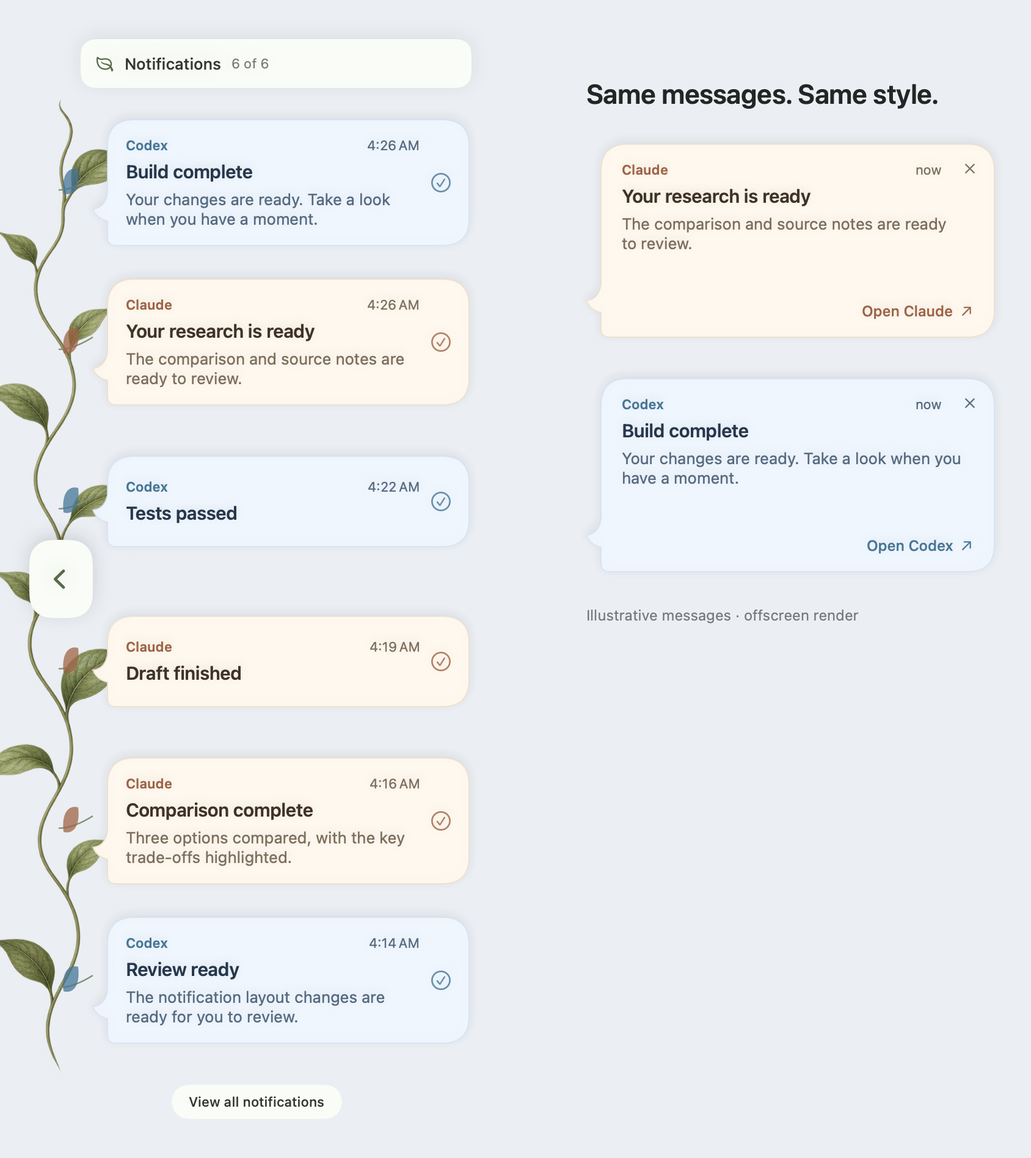
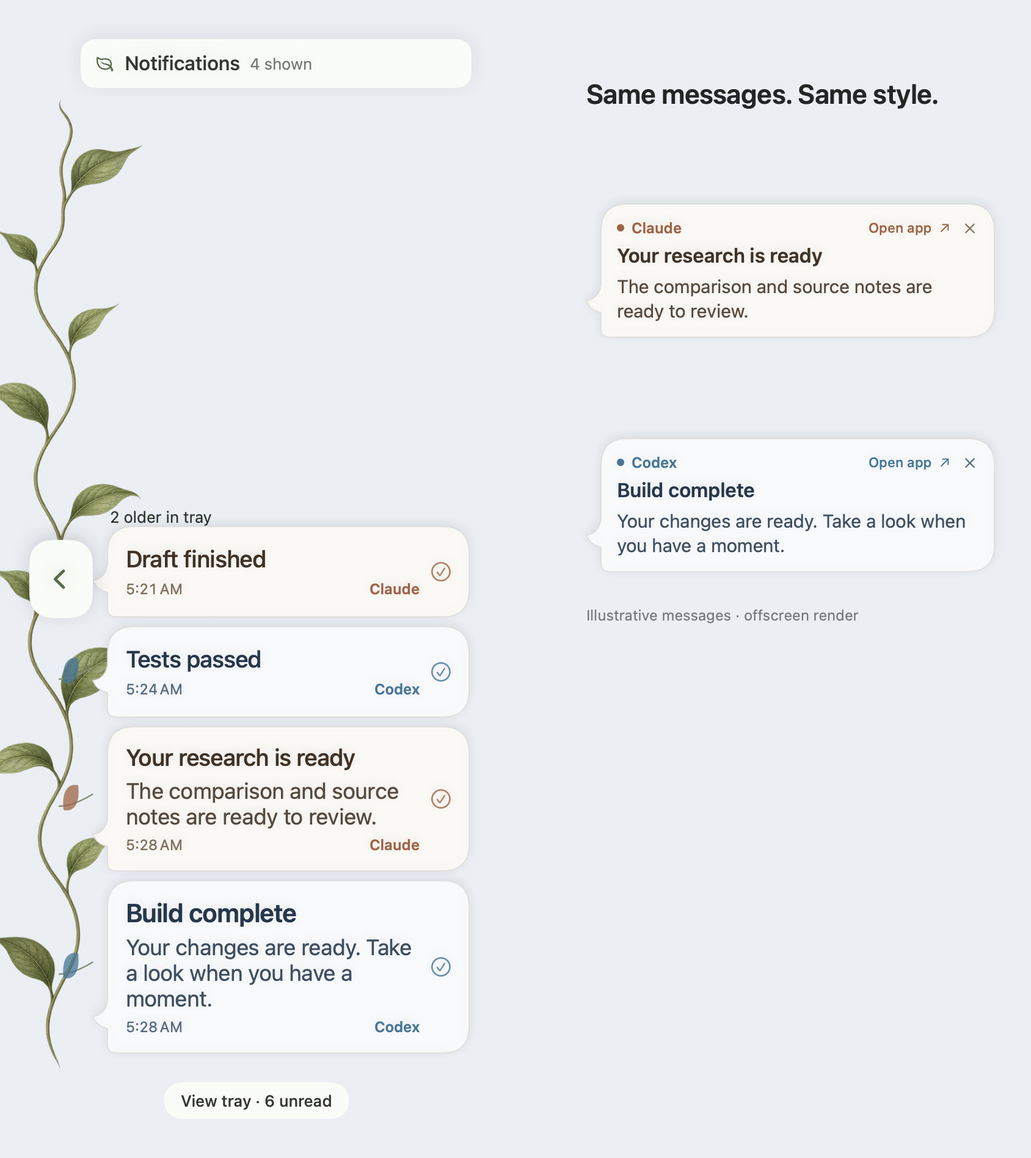
Anchor latest notification at the bottom and add timed vine-only delivery

diff --git a/Sources/AlienPing/VineView.swift b/Sources/AlienPing/VineView.swift
@@ -62,6 +62,8 @@ struct VineView:View {
     private var chrome:Color { Color(hex:scheme == .dark ? "253029":"FAFCF7") }
     private var leafInk:Color { Color(hex:scheme == .dark ? "BDD1AB":"536B43") }
     private var unread:[InboxEntry] { VineSummary.previewable(attention.inbox.entries) }
+    private var timeline:[InboxEntry] { VineSummary.timeline(attention.inbox.entries) }
+    private var shownCount:Int { timeline.count }
     private var isExpanded:Bool { state.visible(hasItems:!unread.isEmpty,quiet:attention.isQuiet) }
     var body:some View {
         Group {
@@ -80,39 +82,48 @@ struct VineView:View {
                 Button { attention.showInbox?() } label:{
                     HStack(spacing:8) {
                         Image(systemName:"leaf").font(.system(size:13,weight:.medium)).foregroundStyle(leafInk)
-                        Text("Notifications").font(.system(size:13,weight:.medium))
-                        Text("\(min(6,unread.count)) of \(unread.count)").font(.system(size:11)).foregroundStyle(ink.opacity(0.65))
+                        Text("Notifications").font(.system(size:16,weight:.medium))
+                        Text("\(shownCount) shown").font(.system(size:13)).foregroundStyle(ink.opacity(0.65))
                     }
                 }.buttonStyle(.plain).help("Open notification tray")
                 Spacer(minLength:2)
             }.padding(.leading,12).padding(.trailing,5).frame(height:40)
                 .background(chrome,in:RoundedRectangle(cornerRadius:12))
                 .shadow(color:.black.opacity(0.08),radius:8,y:2).vineTarget().padding(.leading,42).padding(.trailing,10).padding(.top,8).padding(.bottom,8)
-            GeometryReader { space in
+            GeometryReader { viewport in
+                ScrollViewReader { scroll in
                 ScrollView {
                     VStack(alignment:.leading,spacing:0) {
                         if unread.isEmpty {
                             VStack(alignment:.leading,spacing:8) {
-                                Text("No saved previews yet").font(.system(size:15,weight:.medium))
-                                Text("New notifications with message text will appear here. Older alerts without saved text stay in your tray.").font(.system(size:12)).foregroundStyle(ink.opacity(0.7))
+                                Text(attention.inbox.unreadCount == 0 ? "You’re caught up" : "No unread previews").font(.system(size:15,weight:.medium))
+                                Text(attention.inbox.unreadCount == 0 ? "New unread notifications will appear here." : "Unread alerts without saved text are in your tray.").font(.system(size:15)).foregroundStyle(ink.opacity(0.7))
                             }.padding(18).background(chrome,in:RoundedRectangle(cornerRadius:14)).padding(.leading,56).padding(.trailing,12)
                         }
-                        ForEach(VineSummary.recent(unread)) { entry in
-                            row(entry).frame(minHeight:max(112,(space.size.height-16)/CGFloat(max(1,min(6,unread.count)))))
+                        if unread.count > shownCount {
+                            Button("\(unread.count - shownCount) older in tray") { attention.showInbox?() }
+                                .buttonStyle(.link).vineTarget(scrolled:true).padding(.leading,66)
                         }
-                    }.frame(maxWidth:.infinity,alignment:.leading).padding(.vertical,8)
-                }.scrollIndicators(.hidden)
+                        ForEach(timeline) { entry in
+                            row(entry, latest:entry.id == timeline.last?.id).id(entry.id)
+                        }
+                    }.padding(.vertical,8).frame(maxWidth:.infinity,minHeight:viewport.size.height,alignment:unread.isEmpty ? .topLeading : .bottomLeading)
+                }.scrollIndicators(.automatic)
+                    .onChange(of:timeline.last?.id,initial:true) { _, id in
+                        if let id { scroll.scrollTo(id,anchor:.bottom) }
+                    }
+                }
             }.background(alignment:.leading){ VineStem() }
-            Button { attention.showInbox?() } label:{Text("View all notifications").font(.system(size:11,weight:.medium)).padding(.horizontal,14).padding(.vertical,7)}
+            Button { attention.showInbox?() } label:{Text("View tray · \(attention.inbox.unreadCount) unread").font(.system(size:13,weight:.medium)).padding(.horizontal,14).padding(.vertical,7)}
                 .buttonStyle(.plain).background(chrome,in:Capsule()).vineTarget().padding(.vertical,8)
         }
     }
-    private func row(_ entry:InboxEntry)->some View {
+    private func row(_ entry:InboxEntry, latest:Bool)->some View {
         let appearance=NotificationAppearance(source:entry.source,scheme:scheme)
         let color=appearance.accent
-        let missing=entry.title.isEmpty && entry.body.isEmpty
-        let title=model.hideText || missing ? "Notification from \(entry.source.rawValue)" : (entry.title.isEmpty ? String(entry.body.prefix(100)) : entry.title)
-        let detail=model.hideText ? "Message preview hidden" : (missing ? "Message text wasn’t saved for this older notification." : (entry.title.isEmpty ? "" : entry.body))
+        let subject=entry.title.trimmingCharacters(in:.whitespacesAndNewlines)
+        let title=model.hideText || subject.isEmpty ? "Notification from \(entry.source.rawValue)" : subject
+        let detail=model.hideText ? "Message preview hidden" : entry.body.trimmingCharacters(in:.whitespacesAndNewlines)
         return HStack(spacing:0) {
             ZStack {
                 Path { p in p.move(to:CGPoint(x:24,y:40));p.addQuadCurve(to:CGPoint(x:52,y:30),control:CGPoint(x:36,y:40)) }.stroke(Color(hex:"829173"),lineWidth:1.2)
@@ -121,13 +132,13 @@ struct VineView:View {
             HStack(spacing:2) {
                 Button { attention.open(entry) } label:{
                     VStack(alignment:.leading,spacing:5) {
+                        Text(title).font(latest ? NotificationAppearance.title : .system(size:19,weight:.medium)).tracking(-0.2).foregroundStyle(appearance.ink).lineLimit(2).multilineTextAlignment(.leading)
+                        if !detail.isEmpty { Text(detail).font(NotificationAppearance.body).foregroundStyle(appearance.ink.opacity(0.88)).lineLimit(latest ? 4 : 2).multilineTextAlignment(.leading) }
                         HStack {
-                            Text(entry.source.rawValue).fontWeight(.semibold).foregroundStyle(color)
+                            Text(entry.date.formatted(date:Calendar.current.isDateInToday(entry.date) ? .omitted : .abbreviated,time:.shortened)).monospacedDigit().foregroundStyle(appearance.secondary)
                             Spacer()
-                            Text(entry.date.formatted(date:.omitted,time:.shortened)).foregroundStyle(appearance.secondary)
-                        }.font(.system(size:11))
-                        Text(title).font(NotificationAppearance.title).tracking(-0.2).foregroundStyle(appearance.ink).lineLimit(2).multilineTextAlignment(.leading)
-                        if !detail.isEmpty { Text(detail).font(NotificationAppearance.body).foregroundStyle(appearance.secondary).lineLimit(3).multilineTextAlignment(.leading) }
+                            Text(entry.source.rawValue).font(.system(size:12,weight:.semibold)).foregroundStyle(color)
+                        }.font(.system(size:12))
                     }.frame(maxWidth:.infinity,minHeight:46,alignment:.leading).contentShape(Rectangle())
                 }.buttonStyle(.plain).help("Open \(entry.source.rawValue)")
                 Button { attention.markRead(entry.id) } label:{Image(systemName:"checkmark.circle").font(.system(size:16,weight:.regular)).foregroundStyle(color.opacity(0.8)).frame(width:30,height:44)}
@@ -147,7 +158,7 @@ struct VineView:View {
         } label:{
             VStack(spacing:5) {
                 Image(systemName:attention.isQuiet ? "moon":"chevron.\(isExpanded ? "left":"right")").font(.system(size:18,weight:.semibold))
-                if !isExpanded && !unread.isEmpty { Text("\(unread.count)").font(.system(size:11,weight:.semibold)) }
+                if !isExpanded && !unread.isEmpty { Text("\(shownCount)").font(.system(size:13,weight:.semibold)) }
                 if unread.isEmpty { Image(systemName:"leaf").font(.system(size:12)) }
             }.foregroundStyle(leafInk).frame(width:52,height:64)
                 .background(chrome,in:RoundedRectangle(cornerRadius:18))

diff --git a/Sources/AlienPing/Views.swift b/Sources/AlienPing/Views.swift
@@ -39,27 +39,29 @@ struct PingView: View {
     var body: some View {
         ZStack(alignment:.topTrailing) {
             Button(action:open) {
-                VStack(alignment:.leading,spacing:5) {
-                    HStack(spacing:8) {
-                        Text(ping.source.rawValue).font(.system(size:11,weight:.semibold)).foregroundStyle(accent)
-                        Spacer()
-                        Text(ping.preview ? "Preview" : "now").font(.system(size:11)).foregroundStyle(secondary)
-                    }.padding(.trailing,25)
-                    Text(hideText ? "New notification" : ping.title)
-                        .font(NotificationAppearance.title).tracking(-0.2).lineLimit(1)
-                        .frame(maxWidth:.infinity,alignment:.leading)
-                    Text(hideText ? "Your message is ready to read." : ping.body)
-                        .font(.system(size:13)).foregroundStyle(secondary).lineLimit(2)
-                        .frame(maxWidth:.infinity,alignment:.leading)
-                    Spacer(minLength:3)
+                VStack(alignment:.leading,spacing:6) {
                     HStack(spacing:6) {
+                        Circle().fill(accent).frame(width:6,height:6)
+                        Text(ping.source.rawValue).font(.system(size:12,weight:.semibold))
                         Spacer()
-                        Text(ping.actionLabel ?? (ping.openNotification == nil ? "Open \(ping.source.rawValue)" : "Open chat"))
-                        Image(systemName:"arrow.up.right").font(.system(size:10,weight:.medium))
-                    }.font(.system(size:12,weight:.medium)).foregroundStyle(accent)
+                        Text(ping.actionLabel ?? (ping.openNotification == nil ? "Open app" : "Open chat"))
+                        Image(systemName:"arrow.up.right").font(.system(size:9,weight:.medium))
+                    }
+                    .font(.system(size:11,weight:.medium)).foregroundStyle(accent)
+                    .padding(.trailing,21)
+                    if hideText || !ping.title.isEmpty {
+                        Text(hideText ? "New notification" : ping.title)
+                            .font(.system(size:16,weight:.semibold)).lineLimit(2)
+                    }
+                    if hideText || !ping.body.isEmpty {
+                        Text(hideText ? "Your message is ready to read." : ping.body)
+                            .font(.system(size:15)).foregroundStyle(ink.opacity(0.88))
+                            .lineSpacing(1).lineLimit(4)
+                    }
                 }
-                .padding(.leading,29).padding(.trailing,18).padding(.vertical,14)
-                .frame(maxWidth:.infinity,maxHeight:.infinity,alignment:.leading)
+                .multilineTextAlignment(.leading)
+                .padding(.leading,25).padding(.trailing,15).padding(.vertical,12)
+                .frame(maxWidth:.infinity,alignment:.leading)
                 .contentShape(NotificationBubble())
             }.buttonStyle(.plain).foregroundStyle(ink)
                 .accessibilityLabel("Open \(ping.source.rawValue): \(hideText ? "New notification" : ping.title)")
@@ -73,6 +75,7 @@ struct PingView: View {
         .overlay(NotificationBubble().stroke(edge.opacity(hovered ? 1 : 0.8),lineWidth:1).allowsHitTesting(false))
         .shadow(color:appearance.shadow,radius:4,x:0,y:2)
         .padding(.leading,60).padding(.trailing,6).padding(.vertical,6)
+        .frame(maxHeight:.infinity,alignment:.bottom)
         .onHover { hovered=$0 }
     }
 }

diff --git a/Sources/AlienPing/AttentionController.swift b/Sources/AlienPing/AttentionController.swift
@@ -55,13 +55,21 @@ final class AttentionController: ObservableObject {
     func stop() { timer?.invalidate();timer=nil;meetings.stop();focusedChat.stop();for token in observers { NSWorkspace.shared.notificationCenter.removeObserver(token) };observers=[];save() }
     func preference(_ source:SourceApp)->CompanionPreferences { preferences[source.rawValue] ?? CompanionPreferences(character:source == .claude ? "sunburst":"terminal") }
     func change(_ source:SourceApp,_ update:(inout CompanionPreferences)->Void) { var p=preference(source);update(&p);preferences[source.rawValue]=p }
+    var vineOnly:Bool { UserDefaults.standard.double(forKey:"vineOnlyUntil") > Date().timeIntervalSince1970 }
+    var onVineArrival:(()->Void)?
+    func pauseBubbles() {
+        UserDefaults.standard.set(Date().addingTimeInterval(1800).timeIntervalSince1970,forKey:"vineOnlyUntil")
+        queue.clear();live.removeAll();model.overlay.stop()
+    }
     func receive(_ ping:Ping) {
         focusedChat.inspect { [weak self] context in
             guard let self else { return }
             let seen = !self.sessionUnavailable && context?.matches(source:ping.source,title:ping.title,body:ping.body)==true
             let entry=InboxEntry(source:ping.source,title:ping.title,body:ping.body,read:seen)
             self.inbox.insert(entry)
-            if !seen {
+            if !seen && self.vineOnly {
+                if !self.isQuiet && !VineSummary.previewable([entry]).isEmpty { self.onVineArrival?() }
+            } else if !seen {
                 var livePing=ping;livePing.inboxIDs=[entry.id]
                 self.live[entry.id]=livePing
                 self.queue.enqueue(entry.id,at:Date.timeIntervalSinceReferenceDate,quiet:self.isQuiet)
@@ -83,7 +91,7 @@ final class AttentionController: ObservableObject {
     func markAllRead() { model.overlay.removeReadNotifications(Set(inbox.entries.map(\.id)));inbox.markAllRead();queue.clear();live.removeAll();save() }
     func remove(_ id:UUID) { model.overlay.removeReadNotifications([id]);inbox.remove(id);queue.remove(id);live.removeValue(forKey:id);save() }
     func clear() { model.overlay.removeReadNotifications(Set(inbox.entries.map(\.id)));inbox.clear();queue.clear();live.removeAll();save() }
-    func open(_ entry:InboxEntry) { markRead(entry.id);model.openSource(entry.source) }
+    func open(_ entry:InboxEntry) { model.openSource(entry.source) }
     private func save() {
         onCountChanged?(inbox.unreadCount)
         do { guard let store else { return };try store.save(inbox,storeContent:storeContent);storageError="" }
@@ -104,7 +112,7 @@ final class AttentionController: ObservableObject {
             quietReason=reason
             if !reason.isEmpty {
                 model.overlay.stop()
-                for entry in inbox.entries where !entry.read && Date().timeIntervalSince(entry.date)<15 { queue.enqueue(entry.id,at:Date.timeIntervalSinceReferenceDate,quiet:true) }
+                for entry in inbox.entries where !vineOnly && live[entry.id] != nil && !entry.read && Date().timeIntervalSince(entry.date)<15 { queue.enqueue(entry.id,at:Date.timeIntervalSinceReferenceDate,quiet:true) }
             }
             Diagnostics.shared.event("quiet_mode_changed",["quiet":!reason.isEmpty])
         }

diff --git a/Sources/AlienPing/VineController.swift b/Sources/AlienPing/VineController.swift
@@ -15,7 +15,11 @@ final class VineController {
     private var globalMouse:Any?
     private var localMouse:Any?
     private var lastLayout=""
-    init(model:Model,state:VineState=VineState()) { self.model=model;self.state=state }
+    private var wasQuiet=false
+    private var previousCount=0
+    private var closeDeadline:TimeInterval?
+    private let now:()->TimeInterval
+    init(model:Model,state:VineState=VineState(),now:@escaping ()->TimeInterval={ ProcessInfo.processInfo.systemUptime }) { self.model=model;self.state=state;self.now=now }
     func start(present:Bool=true) {
         presenting=present
         let p=NSPanel(contentRect:.zero,styleMask:[.borderless,.nonactivatingPanel],backing:.buffered,defer:false)
@@ -34,7 +38,12 @@ final class VineController {
         timer=Timer.scheduledTimer(withTimeInterval:0.2,repeats:true) { [weak self] _ in self?.layout();self?.updateMouse() }
         layout()
     }
-    func toggle() { state.enabled.toggle() }
+    func open() {
+        state.enabled=true;state.expanded=true;state.manuallyExpanded=true
+        closeDeadline=now()+20
+    }
+    func hide() { state.enabled=false;state.manuallyExpanded=false;closeDeadline=nil }
+    func revealArrival() { if state.enabled && !model.attention.isQuiet { open() } }
     func stop() {
         timer?.invalidate();timer=nil;subscriptions.removeAll()
         if let globalMouse { NSEvent.removeMonitor(globalMouse) };globalMouse=nil
@@ -45,7 +54,17 @@ final class VineController {
         guard let panel,let screen=NSScreen.screens.first else { return }
         guard state.enabled else { panel.orderOut(nil);return }
         let count=VineSummary.previewable(model.attention.inbox.entries).count
-        let expanded=state.visible(hasItems:count>0,quiet:model.attention.isQuiet)
+        let quiet=model.attention.isQuiet
+        if (quiet && !wasQuiet) || (count==0 && previousCount>0) { state.manuallyExpanded=false }
+        wasQuiet=quiet;previousCount=count
+        var expanded=state.visible(hasItems:count>0,quiet:model.attention.isQuiet)
+        if expanded {
+            if closeDeadline == nil { closeDeadline=now()+20 }
+            if presenting && panel.isVisible && panel.frame.contains(NSEvent.mouseLocation) { closeDeadline=now()+20 }
+            if let deadline=closeDeadline, now()>=deadline {
+                state.manuallyExpanded=false;state.expanded=false;expanded=false
+            }
+        } else { closeDeadline=nil }
         let area=screen.visibleFrame
         let height=expanded ? area.height-24 : 116
         let width:CGFloat=expanded ? min(372,area.width) : 76

diff --git a/Sources/AlienPing/main.swift b/Sources/AlienPing/main.swift
@@ -19,7 +19,10 @@ final class Delegate: NSObject, NSApplicationDelegate {
         let menu=NSMenu()
         let trayItem=NSMenuItem(title:"Notification tray",action:#selector(showInbox),keyEquivalent:"i");trayItem.target=self;unreadItem=trayItem;menu.addItem(trayItem)
         let quietItem=NSMenuItem(title:"Toggle quiet mode",action:#selector(toggleQuiet),keyEquivalent:"d");quietItem.target=self;menu.addItem(quietItem)
-        let vineItem=NSMenuItem(title:"Show notification vine",action:#selector(toggleVine),keyEquivalent:"v");vineItem.target=self;vineMenuItem=vineItem;menu.addItem(vineItem)
+        let vineItem=NSMenuItem(title:"Open notification vine",action:#selector(openVine),keyEquivalent:"v");vineItem.target=self;vineMenuItem=vineItem;menu.addItem(vineItem)
+        for (title,action) in [("Hide notification vine",#selector(hideVine)),("Vine only for 30 minutes",#selector(pauseBubbles))] {
+            let item=NSMenuItem(title:title,action:action,keyEquivalent:"");item.target=self;menu.addItem(item)
+        }
         menu.addItem(.separator())
         let stageItem=NSMenuItem(title:"Mascot Stage",action:#selector(showMascotStage),keyEquivalent:"m");stageItem.target=self
         menu.addItem(stageItem)
@@ -42,7 +45,7 @@ final class Delegate: NSObject, NSApplicationDelegate {
         }
         model.attention.start()
         vine=VineController(model:model);vine?.start()
-        vineMenuItem?.state = vine?.state.enabled == true ? .on : .off
+        model.attention.onVineArrival = { [weak self] in self?.vine?.revealArrival() }
         model.monitor.start()
         if CommandLine.arguments.contains("-mascotPreview") { showMascotStage() }
         else if !CommandLine.arguments.contains("--login-item") && !CommandLine.arguments.contains("--background") { showSettings() }
@@ -56,7 +59,9 @@ final class Delegate: NSObject, NSApplicationDelegate {
             DispatchQueue.main.asyncAfter(deadline: .now()+1) { self.model.preview() }
         }
     }
-    @objc func toggleVine() { vine?.toggle();vineMenuItem?.state = vine?.state.enabled == true ? .on : .off }
+    @objc func openVine() { vine?.open() }
+    @objc func hideVine() { vine?.hide() }
+    @objc func pauseBubbles() { model.attention.pauseBubbles() }
     @objc func toggleQuiet() { model.attention.quietMode = model.attention.quietMode == "Quiet" ? "Automatic" : "Quiet" }
     @objc func showInbox() {
         if inboxWindow == nil {

diff --git a/Sources/AlienPing/VineVerification.swift b/Sources/AlienPing/VineVerification.swift
@@ -10,7 +10,8 @@ enum VineVerification {
         let defaults=UserDefaults(suiteName:suite)!
         defer { defaults.removePersistentDomain(forName:suite);try? FileManager.default.removeItem(at:dir) }
         model.attention=AttentionController(model:model,directory:dir)
-        let state=VineState(defaults:defaults),controller=VineController(model:model,state:VineState(defaults:defaults))
+        var clock=0.0
+        let state=VineState(defaults:defaults),controller=VineController(model:model,state:VineState(defaults:defaults),now:{clock})
         controller.start(present:false)
         defer { controller.stop() }
         func settle() {
@@ -43,9 +44,15 @@ enum VineVerification {
         try require(controller.layoutEvidence.frame.height <= (NSScreen.screens.first?.visibleFrame.height ?? 0)-24,"Large tray must fit the display")
         let h=controller.layoutEvidence.frame.height
         try require(controller.layoutEvidence.targets.allSatisfy{$0.minY>=0 && $0.maxY<=h},"Offscreen rows must not expose hit targets outside panel")
+        controller.hide();controller.open();settle()
+        try require(controller.state.enabled && controller.layoutEvidence.frame.width==372,"Open must reveal a hidden vine")
         model.attention.quietReason="Test quiet";settle()
         try require(controller.layoutEvidence.frame.width==76,"Quiet mode must collapse the vine")
-        model.attention.quietReason="";controller.state.expanded=false;settle()
+        controller.open();settle()
+        try require(controller.layoutEvidence.frame.width==372,"Explicit open during quiet must work")
+        clock += 21;settle()
+        try require(controller.layoutEvidence.frame.width==76,"Inactive vine must collapse")
+        model.attention.quietReason="";settle()
         try require(controller.layoutEvidence.frame.width==76,"Manual collapse must persist after quiet ends")
         state.expanded=false
         try require(!VineState(defaults:defaults).expanded,"Collapse setting must survive restart")

diff --git a/Sources/AlienPing/ReadmePreview.swift b/Sources/AlienPing/ReadmePreview.swift
@@ -47,8 +47,8 @@ enum ReadmePreview {
         try save(AttentionView(attention:attention,model:model).frame(width:640,height:680),"tray.png")
         try save(AttentionView(attention:attention,model:model,tab:1).frame(width:680,height:1050),"personalize.png")
         try save(VStack(spacing:30) {
-            PingView(ping:Ping(source:.claude,title:"Your research is ready",body:"A little update, delivered with personality."),color:Color(hex:"EDA47F"),hideText:false,open:{},dismiss:{})
-            PingView(ping:Ping(source:.codex,title:"Build complete",body:"Your changes are ready to review."),color:Color(hex:"81C9ED"),hideText:false,open:{},dismiss:{})
+            PingView(ping:Ping(source:.claude,title:"Your research is ready",body:"The comparison covers price, setup time, and privacy. Both local options work offline once the initial download finishes."),color:Color(hex:"EDA47F"),hideText:false,open:{},dismiss:{}).frame(width:452,height:198)
+            PingView(ping:Ping(source:.codex,title:"Build complete",body:"The build passed on Intel and Apple Silicon. The updated banner fits four lines of message text and keeps the conversation action within reach."),color:Color(hex:"81C9ED"),hideText:false,open:{},dismiss:{}).frame(width:452,height:198)
         }.padding(40).background(Color(hex:"EAEFF5")),"bubbles.png")
     }
 }

diff --git a/Tests/AlienCoreTests/main.swift b/Tests/AlienCoreTests/main.swift
@@ -231,12 +231,8 @@ var vineFixtures=(0..<8).map{InboxEntry(source:.claude,title:"Update \($0)",body
 vineFixtures.append(InboxEntry(source:.claude,title:"",body:"",date:now))
 vineFixtures.append(InboxEntry(source:.codex,title:"",body:"A useful body-only update",date:now))
 vineFixtures.append(InboxEntry(source:.codex,title:"Read item",body:"",date:now,read:true))
-let recentVine=VineSummary.recent(vineFixtures)
-XCTAssertEqual(recentVine.count,6)
-XCTAssertEqual(recentVine.first?.title,"Update 7")
-XCTAssertEqual(recentVine.contains{$0.read},false)
-XCTAssertEqual(VineSummary.recent([InboxEntry(source:.codex,title:"",body:"",date:now)]).count,0)
-print("Vine shows the latest six individual unread notifications across apps, excluding records without saved text")
+vineFixtures.append(InboxEntry(source:.codex,title:"Between",body:"",date:now.addingTimeInterval(6.5)))
+XCTAssertEqual(VineSummary.timeline(vineFixtures).map(\.title),["","Update 6","Between","Update 7"])
 let visibleChat=FocusedChat(source:.codex,titles:["Notification vine refinement — Codex"])
 XCTAssertEqual(visibleChat.matches(source:.codex,title:"Notification vine refinement",body:"Finished"),true)
 XCTAssertEqual(visibleChat.matches(source:.claude,title:"Notification vine refinement",body:"Finished"),false)

diff --git a/Sources/AlienPing/NotificationAppearance.swift b/Sources/AlienPing/NotificationAppearance.swift
@@ -9,11 +9,11 @@ struct NotificationAppearance {
     private var dark:Bool { scheme == .dark }
     var ink:Color { Color(hex:dark ? (codex ? "E5F3FF":"FFF0DE") : (codex ? "21384D":"423124")) }
     var secondary:Color { Color(hex:dark ? (codex ? "A9C5DA":"C6B6A5") : (codex ? "516B82":"806D5B")) }
-    var paper:Color { Color(hex:dark ? (codex ? "142B3E":"302A25") : (codex ? "EDF6FF":"FFF8ED")) }
-    var edge:Color { Color(hex:dark ? (codex ? "31536D":"514439") : (codex ? "D0E3F5":"EDDEC9")) }
+    var paper:Color { Color(hex:dark ? (codex ? "25292C":"2C2825") : (codex ? "F7FAFC":"FCF9F5")) }
+    var edge:Color { Color(hex:dark ? "494B4B" : "DDDCD8") }
     var accent:Color { Color(hex:dark ? (codex ? "81C9ED":"EDA47F") : (codex ? "347798":"A8603F")) }
     var shadow:Color { .black.opacity(dark ? 0.18:0.08) }
-    static let title=Font.system(size:15,weight:.semibold)
-    static let body=Font.system(size:13)
-    static let label=Font.system(size:11,weight:.semibold)
+    static let title=Font.system(size:21,weight:.semibold)
+    static let body=Font.system(size:18)
+    static let label=Font.system(size:15,weight:.semibold)
 }

diff --git a/Sources/AlienPing/Overlay.swift b/Sources/AlienPing/Overlay.swift
@@ -21,10 +21,10 @@ final class OverlayController {
         while !queue.isEmpty && cards.count < capacity {
             let occupied=Set(cards.values.map(\.slot));guard let slot=(0..<capacity).first(where:{!occupied.contains($0)}) else { return }
             let ping=queue.removeFirst(),id=UUID()
-            let width=min(CGFloat(420),bounds.width),height:CGFloat=166
+            let width=min(CGFloat(452),bounds.width),height:CGFloat=198
             let x=model.corner == .topLeft || model.corner == .bottomLeft ? bounds.minX : bounds.maxX-width
             let bottom=model.corner == .bottomLeft || model.corner == .bottomRight
-            let y=bottom ? bounds.minY+CGFloat(slot)*178 : bounds.maxY-height-CGFloat(slot)*178
+            let y=bottom ? bounds.minY+CGFloat(slot)*height : bounds.maxY-height-CGFloat(slot)*height
             let frame=CGRect(x:x,y:y,width:width,height:height)
             let anchor=CGPoint(x:frame.minX+32,y:frame.minY+38)
             let panel=NSPanel(contentRect:frame,styleMask:[.borderless,.nonactivatingPanel],backing:.buffered,defer:false)

diff --git a/Sources/AlienCore/VineSummary.swift b/Sources/AlienCore/VineSummary.swift
@@ -7,7 +7,13 @@ public enum VineSummary {
             (!$0.title.trimmingCharacters(in:.whitespacesAndNewlines).isEmpty || !$0.body.trimmingCharacters(in:.whitespacesAndNewlines).isEmpty)
         }.sorted{$0.date>$1.date}
     }
-    public static func recent(_ entries:[InboxEntry],limit:Int=6)->[InboxEntry] {
-        Array(previewable(entries).prefix(max(0,limit)))
+    public static func timeline(_ entries:[InboxEntry])->[InboxEntry] {
+        var counts:[SourceApp:Int]=[:]
+        let visible=previewable(entries).filter { entry in
+            guard counts[entry.source,default:0] < 2 else { return false }
+            counts[entry.source,default:0] += 1
+            return true
+        }
+        return Array(visible.reversed())
     }
 }

diff --git a/README.md b/README.md
@@ -22,7 +22,7 @@ These GIFs show the bundled character frames. In the app, companions also travel
 
 ![Native notification vine with sample messages](docs/images/vine.png)
 
-Unread Claude and Codex updates become orange and blue leaves along the left screen edge. Click a title to open its app or the check to mark it read. The vine uses the full available screen height and shows the latest six individual unread notifications across both apps, newest first, with their titles and message previews. Items without saved text are omitted from the vine; all notifications remain in the full tray. New cards fade in, with a static Reduce Motion alternative. Collapse it with the larger button midway down the left edge, or hide it through **sparkle menu → Show notification vine**. Your choice survives restart. Quiet mode and an empty tray default to the small leaf badge; clicking it still opens the vine. The vine and live alerts share speech-bubble styling, including light/dark colors and blue Codex accents.
+Unread Claude and Codex updates become orange and blue leaves along the left screen edge. Click a title to open its app or the check to mark it read. The vine uses the full available screen height and shows up to two unread previews per app in a single timeline anchored at the bottom, newest last, with their titles and message previews. Items without saved text are omitted from the vine; all notifications remain in the full tray. New cards fade in, with a static Reduce Motion alternative. Collapse it with the larger button midway down the left edge, or hide it through **sparkle menu → Hide notification vine**. Use **Open notification vine** to bring it back. It collapses after 20 seconds with the pointer away. Choose **Vine only for 30 minutes** to keep saving incoming alerts while pausing Psst’s popup bubbles. Quiet mode and an empty tray default to the small leaf badge; clicking it still opens the vine. The vine and live alerts share speech-bubble styling, including light/dark colors and blue Codex accents.
 
 ![Collapsed vine badge](docs/images/vine-collapsed.png)
 
@@ -47,7 +47,7 @@ Missed notifications stay in your tray. Bursts within two seconds become one sum
 
 ## Download and install
 
-Get **Psst-0.8.7-universal.dmg** from [Releases](https://github.com/Sickaada/psst/releases). Apple Silicon and Intel are included in one app. macOS 14 or newer is required. Notification compatibility depends on the macOS and source-app versions; this first release has not been tested on every supported Mac.
+Get **Psst-0.8.8-universal.dmg** from [Releases](https://github.com/Sickaada/psst/releases). Apple Silicon and Intel are included in one app. macOS 14 or newer is required. Notification compatibility depends on the macOS and source-app versions; this first release has not been tested on every supported Mac.
 
 1. Open the disk image and drag **Psst** into **Applications**. Eject the disk image.
 2. Open Psst from Applications. This personal/community build is locally signed, **not Apple-notarized**. If macOS blocks it, review [Apple’s instructions for opening an app from an unidentified developer](https://support.apple.com/en-us/102445). Only proceed if you trust this download. Do not disable Gatekeeper globally or install a signing certificate.
